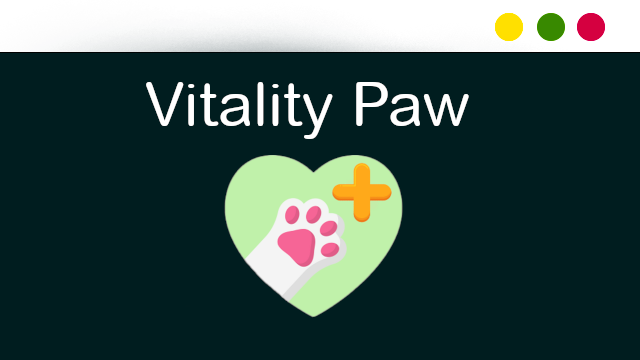
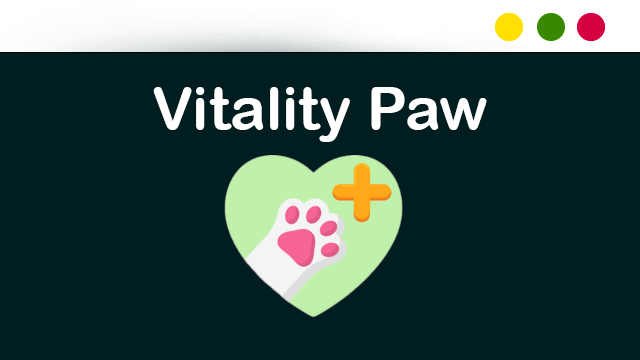
Added malware project, and fixed vitality paw thumbnail

Changed region(s): [[0.2188, 0.2139, 0.7812, 0.3972]]

diff --git a/pages/projects/epitapt.js b/pages/projects/epitapt.js
@@ -1,0 +1,39 @@
+import { Container, Badge, Link, List, ListItem } from '@chakra-ui/react'
+import { Title, Meta } from '../../components/project'
+import P from '../../components/paragraph'
+import Layout from '../../components/layouts/article'
+import { ProjectImage } from '../../components/project'
+
+const Project = () => {
+    return (
+        <Layout title="EpitAPT">
+            <Container>
+                <Title>
+                    EpitAPT {' '}<Badge>2024</Badge>
+                </Title>
+
+                <ProjectImage src="/images/projects/epitapt_dashboard.png" alt="dashboard" />
+
+                <P>
+                    A sophisticated, modular cross-platform malware ecosystem leveraging C++ for client-side operations and Django for centralized command and control.
+                    Includes a modular, multi-threaded, and multi-process client-side agent, includes a kill switch, and SSL/TLS encryption.
+                </P>
+                <List ml={4} my={4}>
+                    <ListItem>
+                        <Meta>Tags</Meta>
+                        <span>
+                            <Link href='https://en.wikipedia.org/wiki/C++_(programming_language)' target="_blank">
+                                C++
+                            </Link>, {' '}
+                            <Link href='https://en.wikipedia.org/wiki/Django_(web_framework)' target="_blank">
+                                Django
+                            </Link>
+                        </span>
+                    </ListItem>
+                </List>
+            </Container>
+        </Layout>
+    )
+}
+
+export default Project

diff --git a/pages/projects.js b/pages/projects.js
@@ -10,6 +10,7 @@ import thumbPING from '../public/images/projects/ping_preview.png'
 import thumbAsclepios from '../public/images/projects/asclepios_preview.png'
 import thumbFIC from '../public/images/projects/fic_preview.png'
 import thumbVitalityPaw from '../public/images/projects/vitalitypaw_preview.png'
+import thumbEpitAPT from '../public/images/projects/epitapt_preview.png'
 import Layout from '../components/layouts/article'
 
 const Projects = () => {
@@ -21,6 +22,11 @@ const Projects = () => {
                 </Heading>
 
                 <SimpleGrid columns={[1, 1, 2]} gap={6}>
+                    <Section>
+                        <WorkGridItem id="epitapt" title="EpitAPT" thumbnail={thumbEpitAPT}>
+                            A cross-platform malware written in C++ for the client and Django for the C2 server.
+                        </WorkGridItem>
+                    </Section>
                     <Section>
                         <WorkGridItem id="vitalitypaw" title="Vitality Paw" thumbnail={thumbVitalityPaw}>
                             An application that helps improve your animal care.
